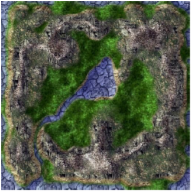
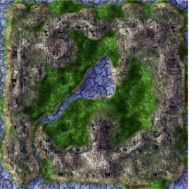
Auto stash before merge of "master" and "origin/master"

diff --git a/LAIGDemoParser20182019v2/MyTerrain.js b/LAIGDemoParser20182019v2/MyTerrain.js
@@ -21,25 +21,23 @@ class MyTerrain extends MyPlane {
         this.parts = parts;
         this.heightscale = heightscale;
 
-        this.currentShader = new CGFshader(this.scene.gl, "Shaders/texture3.vert", "Shaders/texture3.frag");
+        this.currentShader = new CGFshader(this.scene.gl, "Shaders/test.vert", "Shaders/test.frag");
    
-        this.currentShader.setUniformsValues({uSampler2: 1});
-        
-        this.heightTexture = this.idheightmap;
-        this.colorTexture = this.idtexture;
-
+        this.currentShader.setUniformsValues({texture: 1});
+        this.currentShader.setUniformsValues({height: 2});
         this.currentShader.setUniformsValues({normScale: this.heightscale});
 
-        console.log(this.obj);
-
+        this.height = this.idheightmap;
+        this.texture = this.idtexture;
     };
 
     display(){
 
         this.scene.setActiveShader(this.currentShader);
         this.scene.pushMatrix();
-        this.colorTexture.bind(0);
-        this.scene.scale(5,5,5);
+        this.texture.bind(1);
+        this.height.bind(2);
+        this.scene.scale(10,10,10, 1);
         this.plane.display();
         this.scene.popMatrix();
         this.scene.setActiveShader(this.scene.defaultShader);

diff --git a/LAIGDemoParser20182019v2/MyWater.js b/LAIGDemoParser20182019v2/MyWater.js
@@ -1,7 +1,7 @@
 /**
  * MyWater class - Represents the primitive water
  */
-class MyWater extends CGFobject {
+class MyWater extends MyPlane {
 
     /**
      * @constructor of the water
@@ -14,7 +14,7 @@ class MyWater extends CGFobject {
      * @param texscale - 
      */
     constructor(scene, idtexture, idwavemap, parts, heightscale, texscale) {
-        super(scene);
+        super(scene, parts, parts);
 
         this.idtexture = idtexture;
         this.idwavemap = idwavemap;
